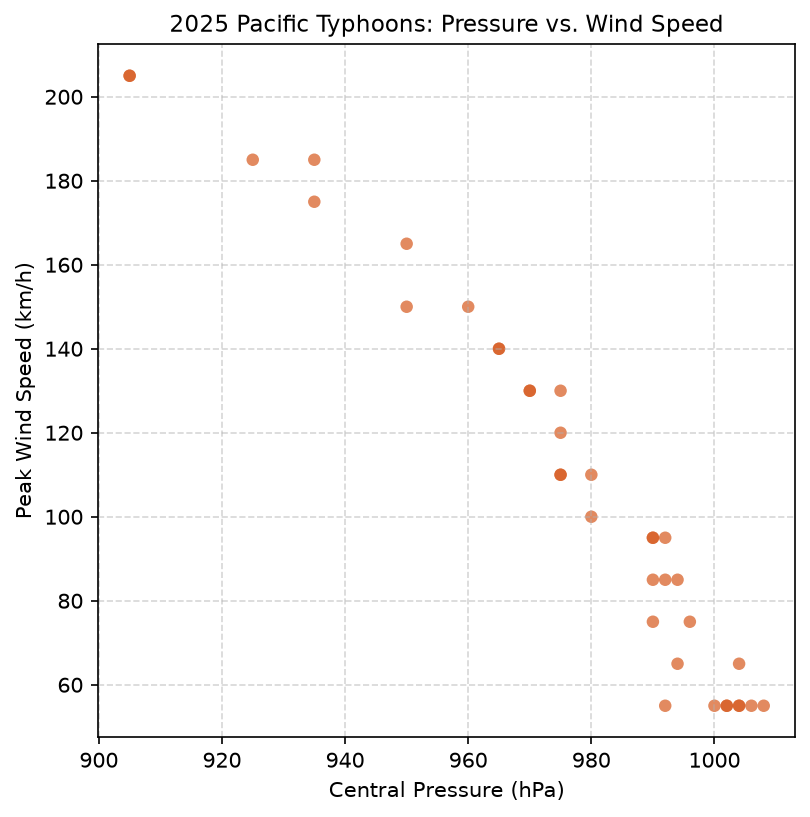
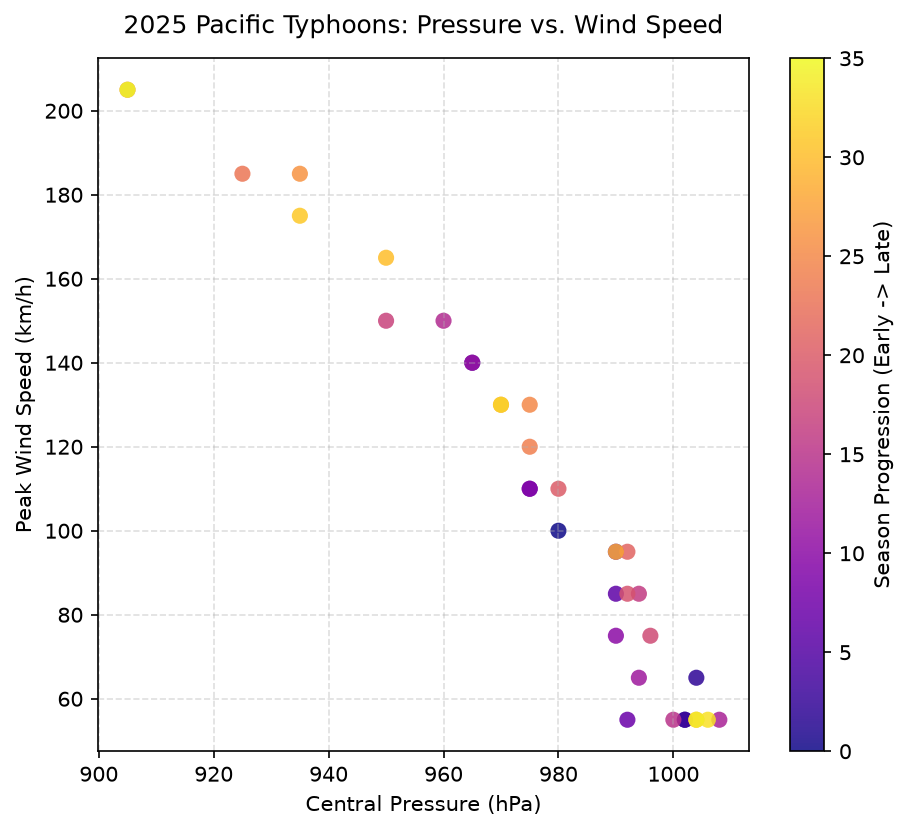
update plot script with season progression and fix string escape

diff --git a/plot.py b/plot.py
@@ -4,7 +4,8 @@
 # ///
 
 """
-Parse the saved Wikipedia HTML and plot typhoon wind speed vs. central pressure.
+Parse saved Wikipedia HTML and plot typhoon wind speed vs. central pressure,
+color-coded by chronological order (time progression through the season).
 """
 
 import re
@@ -47,8 +48,6 @@ def main():
         if len(cells) < 6:
             continue
         
-        # 假设风速和气压在特定的列（根据维基百科表格结构调整，通常风速在某列，气压在另一列）
-        # 这里我们遍历单元格尝试提取数值
         row_text = " ".join([cell.get_text(strip=True) for cell in cells])
         
         speed = extract_number(row_text, "km/h")
@@ -59,15 +58,35 @@ def main():
             pressures.append(pressure)
 
     print(f"Extracted {len(wind_speeds)} valid typhoon data points.")
-
-    # 画散点图：气压 vs 风速
-    fig, ax = plt.subplots(figsize=(6, 6))
-    ax.scatter(pressures, wind_speeds, color="#d6591d", alpha=0.7, edgecolors="none")
     
-    ax.set_title("2025 Pacific Typhoons: Pressure vs. Wind Speed", fontsize=11)
-    ax.set_xlabel("Central Pressure (hPa)")
-    ax.set_ylabel("Peak Wind Speed (km/h)")
-    ax.grid(True, linestyle="--", alpha=0.5)
+    if not wind_speeds:
+        print("Warning: No data points found. Please check the HTML table structure.")
+        return
+
+    # 打印一些基础统计洞察
+    print(f"-> 本季记录到的最高风速: {max(wind_speeds)} km/h")
+    print(f"-> 本季记录到的最低气压: {min(pressures)} hPa")
+
+    # 画散点图：气压 vs 风速（按时间顺序用渐变色展示）
+    fig, ax = plt.subplots(figsize=(7, 6))
+    
+    # 用数据出现的先后顺序（索引）作为时间演变轴
+    time_sequence = range(len(wind_speeds))
+    
+    scatter = ax.scatter(
+        pressures, wind_speeds, 
+        c=time_sequence, cmap="plasma", 
+        s=60, alpha=0.85, edgecolors="none"
+    )
+    
+    # 添加颜色条（已修复转义字符问题）
+    cbar = plt.colorbar(scatter)
+    cbar.set_label("Season Progression (Early -> Late)", fontsize=10)
+
+    ax.set_title("2025 Pacific Typhoons: Pressure vs. Wind Speed", fontsize=12, pad=12)
+    ax.set_xlabel("Central Pressure (hPa)", fontsize=10)
+    ax.set_ylabel("Peak Wind Speed (km/h)", fontsize=10)
+    ax.grid(True, linestyle="--", alpha=0.4)
 
     target = OUT / "plot.png"
     fig.savefig(target, dpi=150, bbox_inches="tight")
